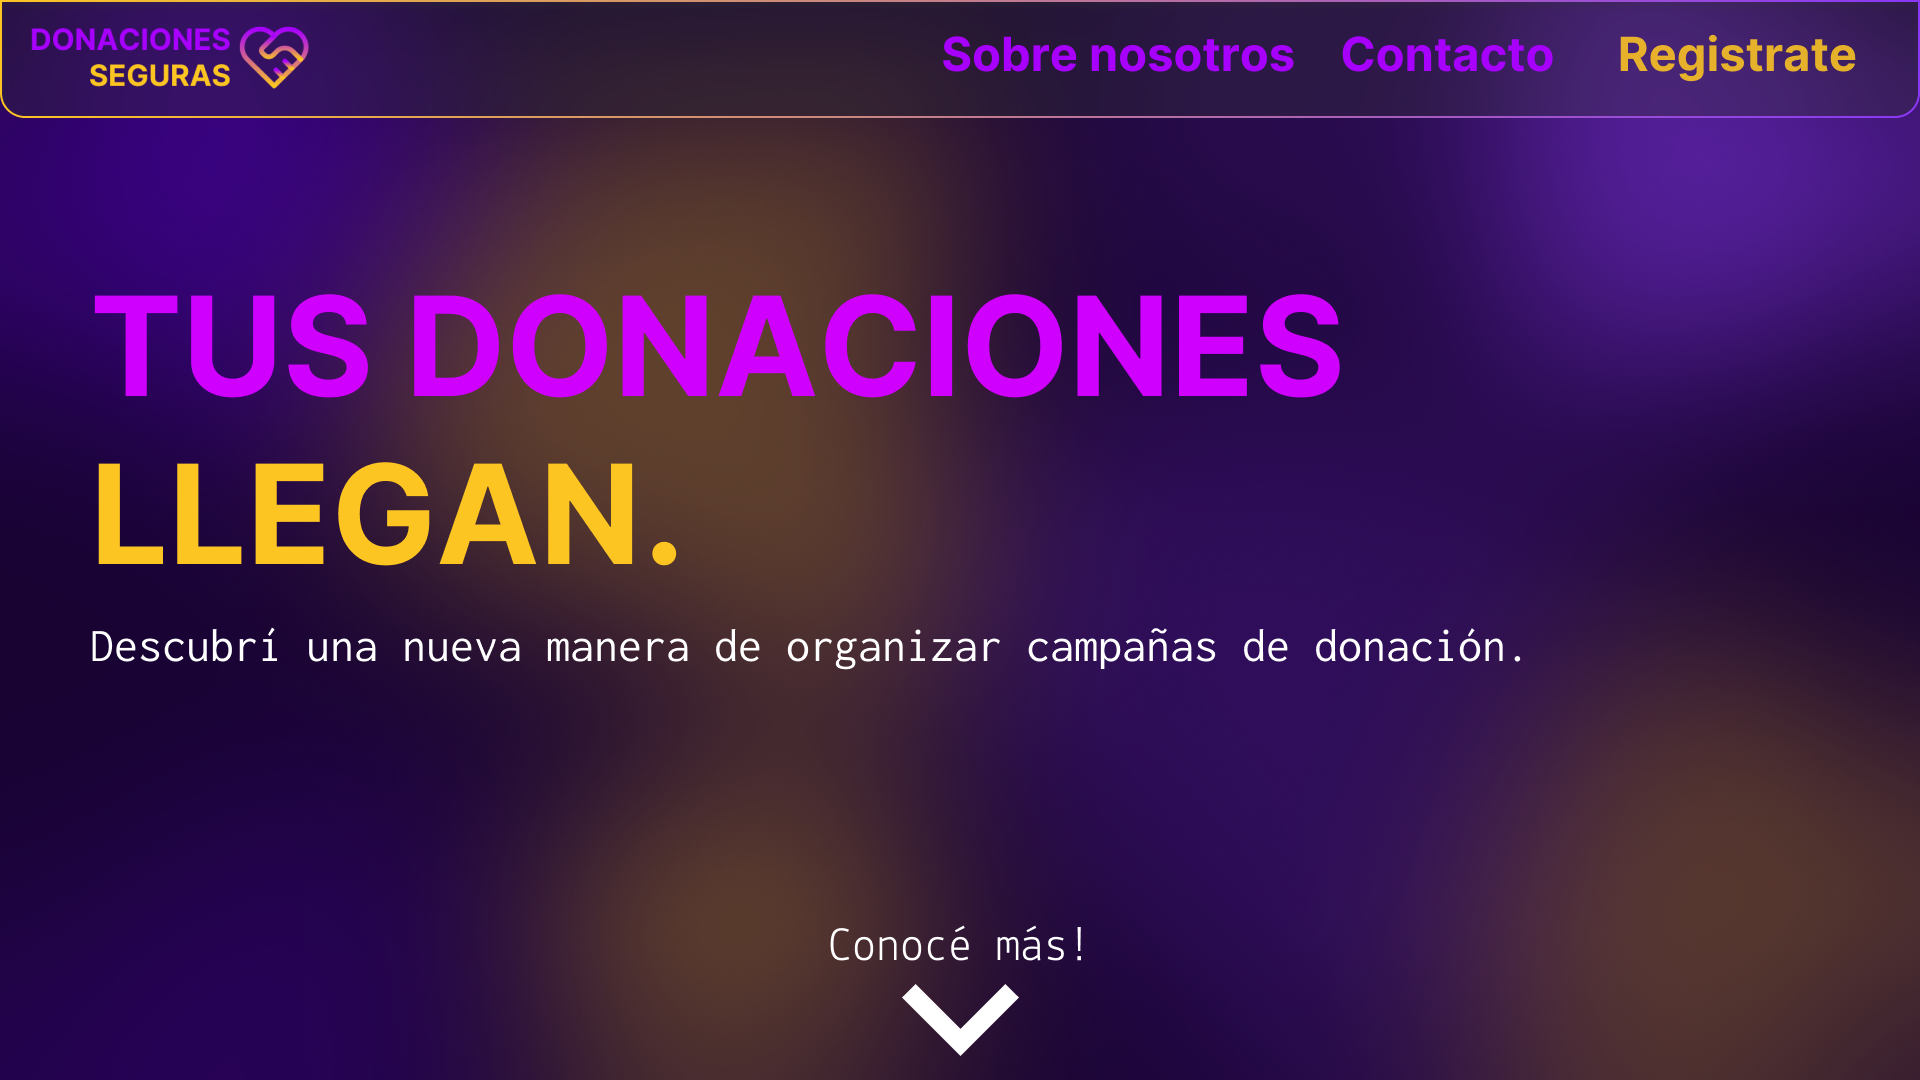
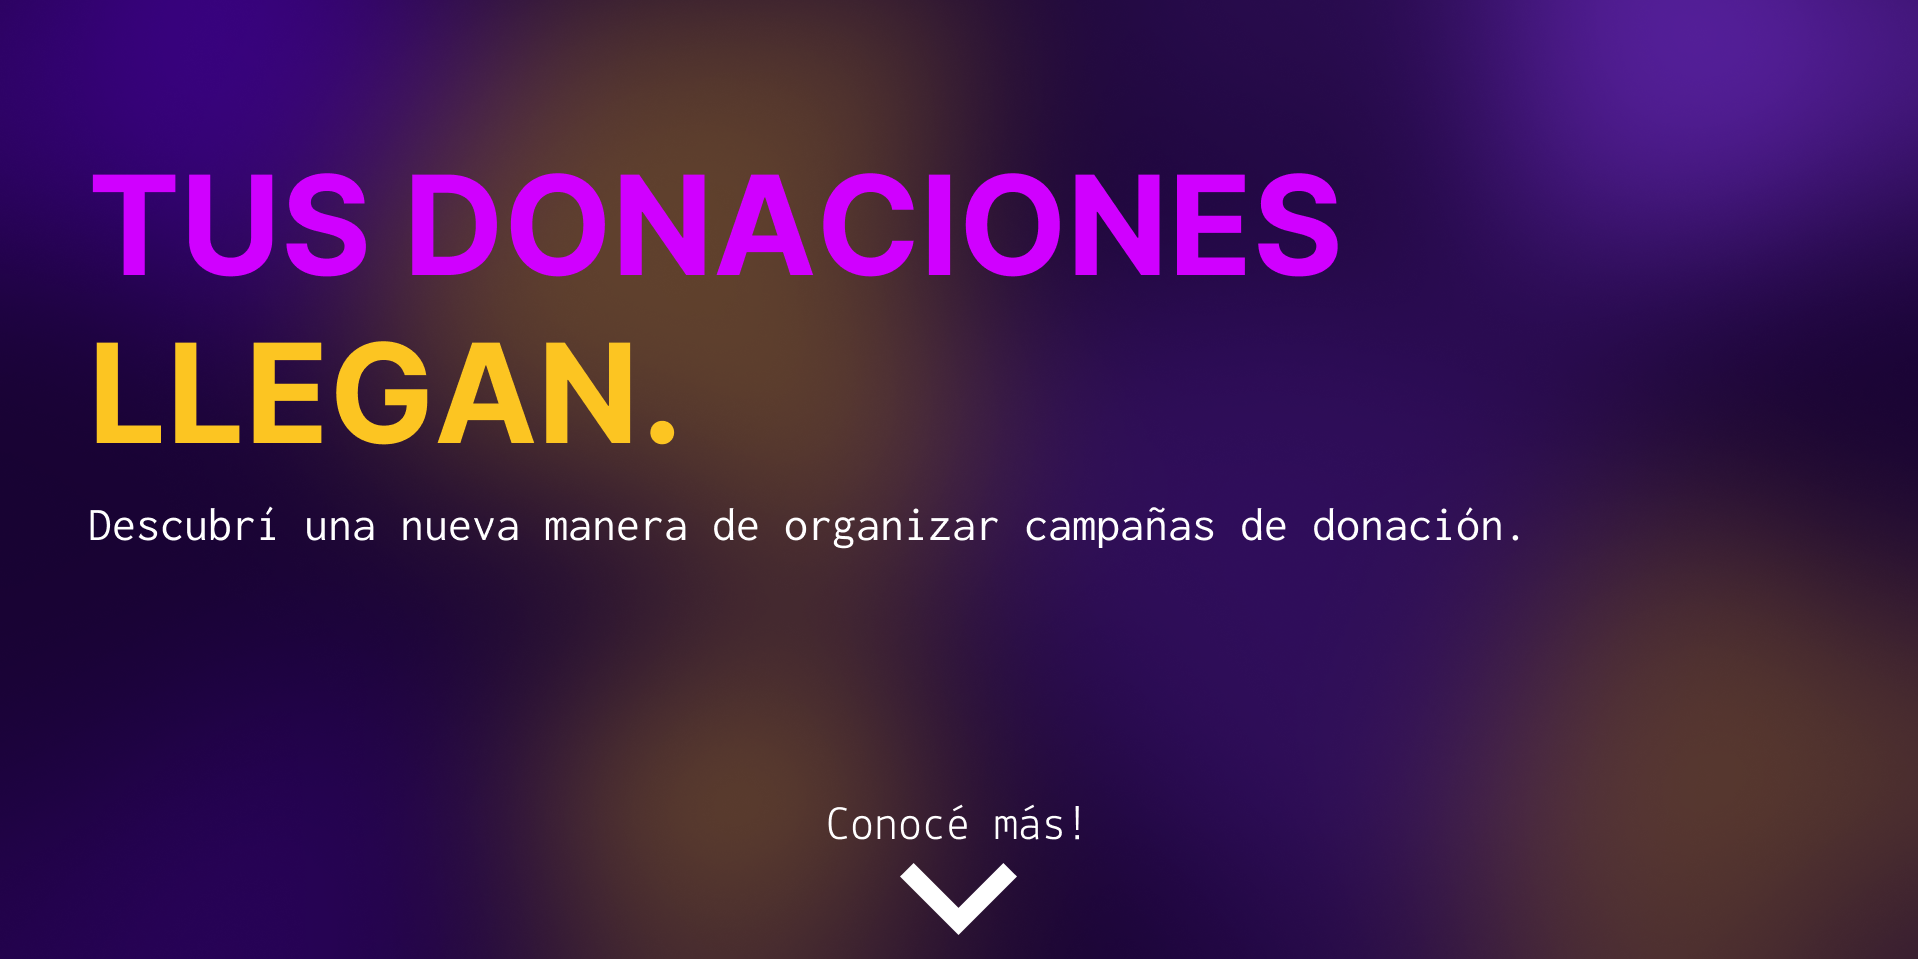
.

diff --git a/Landing/src/App.css b/Landing/src/App.css
@@ -51,7 +51,198 @@ main {
   color: #ffb300;
 }
 
-/* Hero eliminado */
+.hero {
+  min-height: 100vh;
+  background: linear-gradient(135deg, #2d1b69 0%, #1a0d3a 30%, #3d2a1a 70%, #2d1b1a 100%);
+  display: flex;
+  align-items: center;
+  justify-content: flex-start;
+  position: relative;
+  overflow: hidden;
+  font-family: 'Arial', 'Helvetica', sans-serif;
+}
+
+.hero-content {
+  text-align: left;
+  max-width: 1200px;
+  width: 100%;
+  padding: 0 60px;
+  position: relative;
+  z-index: 2;
+}
+
+.hero-title {
+  margin: 0;
+  line-height: 0.85;
+  margin-bottom: 32px;
+}
+
+.hero-title-line1 {
+  display: block;
+  font-size: clamp(4rem, 10vw, 7rem);
+  font-weight: 800;
+  color: #D000FF;
+  text-transform: uppercase;
+  letter-spacing: -0.01em;
+  font-family: 'Arial Black', 'Arial', sans-serif;
+}
+
+.hero-title-line2 {
+  display: block;
+  font-size: clamp(4rem, 10vw, 7rem);
+  font-weight: 800;
+  color: #ffb300;
+  text-transform: uppercase;
+  letter-spacing: -0.01em;
+  font-family: 'Arial Black', 'Arial', sans-serif;
+}
+
+.hero-description {
+  font-size: clamp(1.2rem, 2.8vw, 1.6rem);
+  color: #ffffff;
+  margin: 0 0 60px 0;
+  font-weight: 300;
+  line-height: 1.3;
+  font-family: 'Arial', 'Helvetica', sans-serif;
+}
+
+.hero-cta {
+  display: flex;
+  flex-direction: column;
+  align-items: center;
+  gap: 20px;
+  position: absolute;
+  bottom: 80px;
+  left: 50%;
+  transform: translateX(-50%);
+}
+
+.hero-cta-text {
+  color: #ffffff;
+  font-size: 1.3rem;
+  font-weight: 500;
+  margin: 0;
+  text-transform: uppercase;
+  letter-spacing: 2px;
+  font-family: 'Arial', 'Helvetica', sans-serif;
+}
+
+.hero-cta-chevron {
+  color: #ffffff;
+  font-size: 2.5rem;
+  animation: bounce 2s infinite;
+  font-weight: bold;
+}
+
+@keyframes bounce {
+  0%, 20%, 50%, 80%, 100% {
+    transform: translateY(0);
+  }
+  40% {
+    transform: translateY(-10px);
+  }
+  60% {
+    transform: translateY(-5px);
+  }
+}
+
+.sobre-nosotros {
+  min-height: 100vh;
+  background: #180333;
+  display: flex;
+  flex-direction: column;
+  justify-content: center;
+  position: relative;
+  padding: 80px 60px;
+  font-family: 'Arial', 'Helvetica', sans-serif;
+}
+
+.sobre-content {
+  display: flex;
+  align-items: center;
+  gap: 60px;
+  max-width: 1200px;
+  margin: 0 auto;
+  width: 100%;
+}
+
+.sobre-left {
+  flex: 1;
+  max-width: 700px;
+}
+
+.sobre-title {
+  margin: 0 0 60px 0;
+  line-height: 0.9;
+}
+
+.sobre-title-line1 {
+  display: block;
+  font-size: clamp(3rem, 8vw, 5rem);
+  font-weight: 800;
+  color: #D000FF;
+  text-transform: uppercase;
+  letter-spacing: -0.01em;
+  font-family: 'Arial Black', 'Arial', sans-serif;
+}
+
+.sobre-title-line2 {
+  display: block;
+  font-size: clamp(3rem, 8vw, 5rem);
+  font-weight: 800;
+  color: #ffb300;
+  text-transform: uppercase;
+  letter-spacing: -0.01em;
+  font-family: 'Arial Black', 'Arial', sans-serif;
+}
+
+.sobre-text {
+  color: #ffffff;
+  line-height: 1.6;
+  font-size: 1.3rem;
+}
+
+.sobre-text p {
+  margin: 0 0 20px 0;
+  font-weight: 300;
+}
+
+.sobre-text p:last-child {
+  margin-bottom: 0;
+}
+
+.sobre-right {
+  flex: 1;
+  display: flex;
+  justify-content: center;
+  align-items: center;
+}
+
+.sobre-image-container {
+  position: relative;
+  border-radius: 8px;
+  overflow: hidden;
+  box-shadow: 0 8px 32px rgba(0, 0, 0, 0.3);
+}
+
+.sobre-image {
+  width: 100%;
+  max-width: 600px;
+  height: auto;
+  display: block;
+  border: 3px solid;
+  border-image: linear-gradient(45deg, #D000FF, #ffb300, #ff0080, #ffb300) 1;
+}
+
+.sobre-chevron {
+  position: absolute;
+  bottom: 40px;
+  left: 50%;
+  transform: translateX(-50%);
+  color: #ffffff;
+  font-size: 2rem;
+  animation: bounce 2s infinite;
+}
 
 .section {
   min-height: 40vh;

diff --git a/Landing/src/App.jsx b/Landing/src/App.jsx
@@ -9,7 +9,38 @@ function App() {
       </header>
 
       <main>
-        <section id="sobre-nosotros" className="section" aria-label="Sobre nosotros"></section>
+        <section id="hero" className="hero" aria-label="Hero">
+          <div className="hero-content">
+            <h1 className="hero-title">
+              <span className="hero-title-line1">TUS DONACIONES</span>
+              <span className="hero-title-line2">LLEGAN.</span>
+            </h1>
+            <p className="hero-description">
+              Descubrí una nueva manera de organizar campañas de donación.
+            </p>
+          </div>
+        </section>
+
+        <section id="sobre-nosotros" className="sobre-nosotros" aria-label="Sobre nosotros">
+          <div className="sobre-content">
+            <div className="sobre-left">
+              <h2 className="sobre-title">
+                <span className="sobre-title-line1">Sobre</span>
+                <span className="sobre-title-line2">nosotros.</span>
+              </h2>
+              <div className="sobre-text">
+                <p>Donaciones Seguras es la solución a la deshonestidad en campañas de donación y la mejor manera de asegurar que tendrás el producto que necesitas al momento de una emergencia. La tecnología nos ha permitido armar una página que ayuda tanto a las ONGs como a los afectados por distintos problemas que necesitan de una mano.</p>
+                <p>Así nace Donaciones Seguras, tu espacio de confianza para la organización y reserva de donaciones.</p>
+              </div>
+            </div>
+            <div className="sobre-right">
+              <div className="sobre-image-container">
+                <img src="./src/Images/Donadoresempacando.png" alt="Voluntarios empacando donaciones" className="sobre-image" />
+              </div>
+            </div>
+          </div>
+          <div className="sobre-chevron">▼</div>
+        </section>
         <section id="section-3" className="section" aria-label="Sección 3"></section>
         <section id="section-4" className="section" aria-label="Sección 4"></section>
         <section id="registrate" className="section" aria-label="Regístrate"></section>
